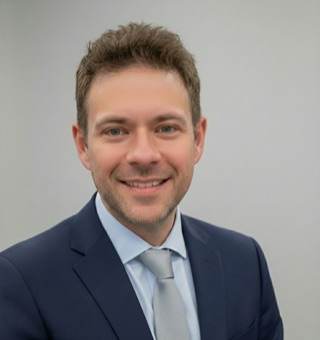
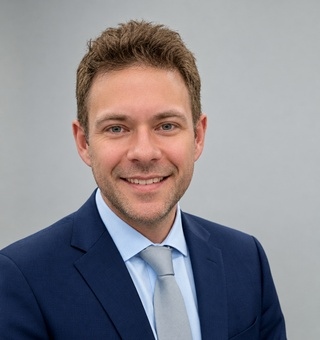
Replace headshot with updated portrait

diff --git a/index.html b/index.html
@@ -643,9 +643,9 @@ strong{font-weight:600;color:var(--text)}
 /* `height:auto` here is load-bearing. The markup carries width/height
    attributes so the browser reserves the right box before load, but the height
    attribute is a presentational hint. With no explicit height declaration it
-   wins, the used height stays locked at the image's 1056px natural height, and
+   wins, the used height stays locked at the image's 1294px natural height, and
    `aspect-ratio` never gets a chance to apply, and the portrait renders as a
-   368x1056 slab. Declaring height:auto hands the box back to aspect-ratio. */
+   368x1294 slab. Declaring height:auto hands the box back to aspect-ratio. */
 .portrait img{
   position:relative;
   z-index:1;
@@ -1448,12 +1448,13 @@ html.js .iso:not(.is-in) .mbar__tick{left:0}
         </svg>
         <span class="portrait__rule" aria-hidden="true"></span>
         <span class="portrait__frame" aria-hidden="true"></span>
-        <!-- Owner-supplied master, served exactly as exported: no downscale, no
-             re-encode. An earlier set of WebP/JPEG derivatives was visibly lossy
-             at the size the portrait renders, so do not reintroduce a lossy step
-             here. The width/height attributes keep the 4:4.3 box reserved before
-             the image arrives. -->
-        <img src="Headshot.jpeg" alt="Austin Bond" width="992" height="1056" fetchpriority="high" data-i18n-attr="alt:hero.photoAlt">
+        <!-- Owner-supplied master at its exported pixel size (1216x1294): no
+             downscale. The master is a single PNG-to-JPEG pass at q94; an
+             earlier set of WebP/JPEG derivatives was visibly lossy at the size
+             the portrait renders, so do not reintroduce a downscale step here.
+             The width/height attributes keep the 4:4.3 box reserved before the
+             image arrives. -->
+        <img src="Headshot.jpeg" alt="Austin Bond" width="1216" height="1294" fetchpriority="high" data-i18n-attr="alt:hero.photoAlt">
       </div>
     </div>
   </div>
